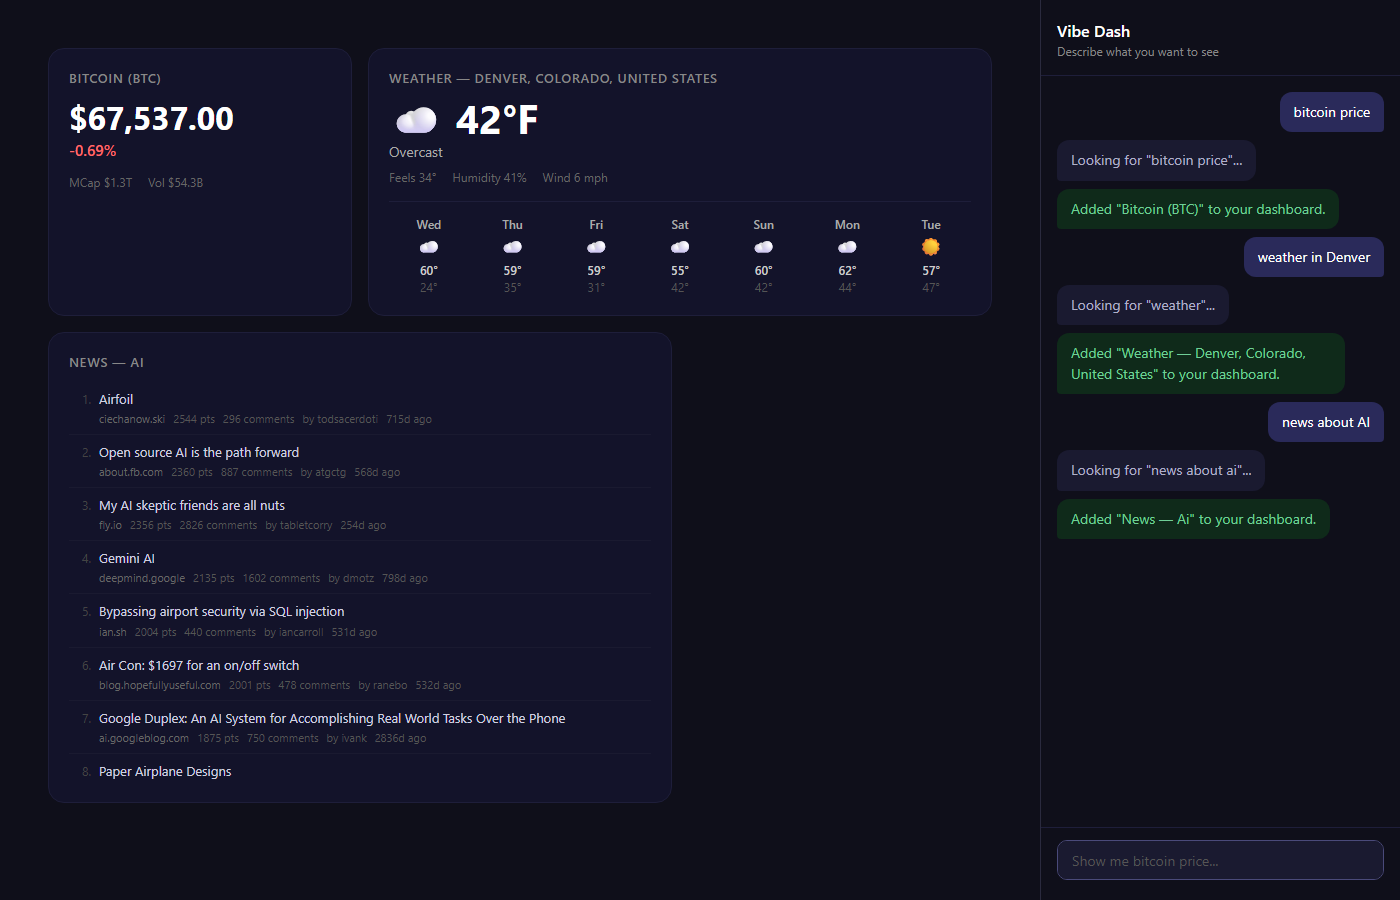
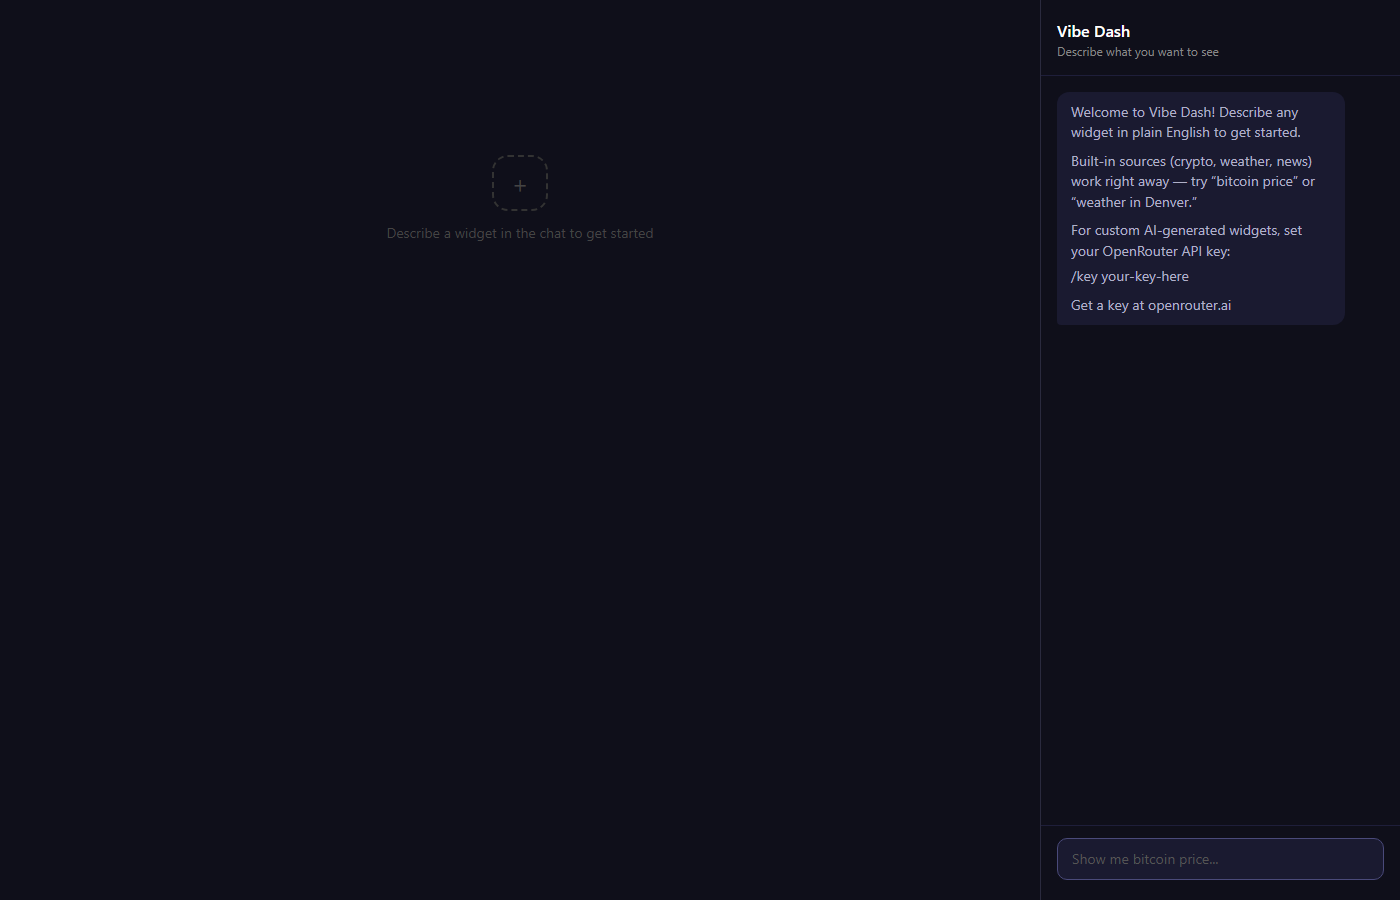
Wire up AI widget generator via OpenRouter with /key command
Switch AI generator from OpenAI to OpenRouter (Claude model), add /key
chat command for API key management, and show first-run welcome message.

diff --git a/src/main.js b/src/main.js
@@ -42,9 +42,9 @@ const sources = [
 ];
 
 // 5. AiWidgetGenerator
-const aiGenerator = createAiWidgetGenerator(
-  window.VIBE_DASH_CONFIG || {}
-);
+const aiGenerator = createAiWidgetGenerator({
+  getApiKey: () => persistence.getApiKey()
+});
 
 // 6. SourceRouter
 const router = createSourceRouter(bus, sources, aiGenerator);
@@ -76,6 +76,13 @@ createChatShell(bus, chatEl);
 
 bus.on('user:message', async (text) => {
   try {
+    // /key command — intercept before intent parser
+    const keyMatch = text.trim().match(/^\/key(?:\s+(.*))?$/);
+    if (keyMatch) {
+      handleKeyCommand(keyMatch[1]?.trim() || null);
+      return;
+    }
+
     const intent = parser.parse(text);
 
     switch (intent.action) {
@@ -277,6 +284,49 @@ function resolveTarget(intent) {
 
 
 // ============================================================================
+// /key command handler
+// ============================================================================
+
+function handleKeyCommand(arg) {
+  if (!arg) {
+    // Show current key status
+    const key = persistence.getApiKey();
+    if (key) {
+      const masked = key.length > 8
+        ? key.slice(0, 5) + '...' + key.slice(-4)
+        : '****';
+      bus.emit('system:message', {
+        type: 'info',
+        text: `API key is set: ${masked}`
+      });
+    } else {
+      bus.emit('system:message', {
+        type: 'info',
+        text: 'No API key set. Use /key your-key-here to set one.'
+      });
+    }
+    return;
+  }
+
+  if (arg === 'clear') {
+    persistence.clearApiKey();
+    bus.emit('system:message', {
+      type: 'success',
+      text: 'API key cleared.'
+    });
+    return;
+  }
+
+  // Set the key
+  persistence.setApiKey(arg);
+  bus.emit('system:message', {
+    type: 'success',
+    text: 'API key saved. AI-generated widgets are now enabled.'
+  });
+}
+
+
+// ============================================================================
 // Lifecycle
 // ============================================================================
 
@@ -289,7 +339,14 @@ window.addEventListener('beforeunload', () => {
 // Boot (contracts.ts step 11)
 // ============================================================================
 
-runtime.boot().catch(e => {
+runtime.boot().then(() => {
+  if (!persistence.getApiKey()) {
+    bus.emit('system:message', {
+      type: 'info',
+      text: `Welcome to Vibe Dash! Describe any widget in plain English to get started.\n\nBuilt-in sources (crypto, weather, news) work right away \u2014 try \u201Cbitcoin price\u201D or \u201Cweather in Denver.\u201D\n\nFor custom AI-generated widgets, set your OpenRouter API key:\n  /key your-key-here\n\nGet a key at openrouter.ai`
+    });
+  }
+}).catch(e => {
   console.error('[vibe-dash] Boot failed:', e);
   bus.emit('system:message', {
     type: 'error',

diff --git a/src/ai-generator.js b/src/ai-generator.js
@@ -4,16 +4,14 @@
 //   createAiWidgetGenerator(config)
 //   generate(intent) → Promise<DataSourceResult>
 //
-// Calls an OpenAI-compatible chat completions API to produce
+// Calls OpenRouter's chat completions API (OpenAI-compatible) to produce
 // self-contained HTML/CSS/JS rendered inside a sandboxed iframe.
 //
 // Config:
-//   apiKey:  string (required) — bearer token for the LLM API
-//   apiUrl:  string (optional) — defaults to OpenAI's chat completions endpoint
-//   model:   string (optional) — defaults to "gpt-4o-mini"
+//   getApiKey: () → string|null — lazy key lookup (checked per call)
 
-const DEFAULT_API_URL = 'https://api.openai.com/v1/chat/completions';
-const DEFAULT_MODEL = 'gpt-4o-mini';
+const DEFAULT_API_URL = 'https://openrouter.ai/api/v1/chat/completions';
+const DEFAULT_MODEL = 'anthropic/claude-sonnet-4';
 
 const SYSTEM_PROMPT = `You are a dashboard widget generator. Given a user's request, produce a single self-contained HTML document that visualizes or implements what they asked for.
 
@@ -29,7 +27,7 @@ Rules:
 - Keep it simple. One clear visualization or interaction per widget.`;
 
 export function createAiWidgetGenerator(config = {}) {
-  const apiKey = config.apiKey || null;
+  const getApiKey = config.getApiKey || (() => null);
   const apiUrl = config.apiUrl || DEFAULT_API_URL;
   const model = config.model || DEFAULT_MODEL;
 
@@ -39,10 +37,11 @@ export function createAiWidgetGenerator(config = {}) {
      * @returns {Promise<import('../contracts').DataSourceResult>}
      */
     async generate(intent) {
+      const apiKey = getApiKey();
       if (!apiKey) {
         return {
           kind: 'error',
-          message: 'AI widget generation requires an API key. Configure one to enable custom widgets.',
+          message: 'AI widget generation requires an API key. Use /key your-key-here to set your OpenRouter key.',
           retryable: false
         };
       }
@@ -55,7 +54,9 @@ export function createAiWidgetGenerator(config = {}) {
           method: 'POST',
           headers: {
             'Content-Type': 'application/json',
-            'Authorization': `Bearer ${apiKey}`
+            'Authorization': `Bearer ${apiKey}`,
+            'HTTP-Referer': 'https://github.com/anthropics/vibe-dash',
+            'X-Title': 'Vibe Dash'
           },
           body: JSON.stringify({
             model,

diff --git a/src/persistence.js b/src/persistence.js
@@ -6,6 +6,7 @@
 // Returns [] on missing or corrupt data — never throws.
 
 const STORAGE_KEY = 'vibe-dash-widgets';
+const API_KEY_KEY = 'vibe-dash-api-key';
 const DEBOUNCE_MS = 500;
 
 const PERSISTED_KEYS = [
@@ -89,6 +90,22 @@ export function createPersistenceLayer() {
     clear() {
       clearTimeout(debounceTimer);
       localStorage.removeItem(STORAGE_KEY);
+    },
+
+    /** Get stored OpenRouter API key, or null. */
+    getApiKey() {
+      return localStorage.getItem(API_KEY_KEY) || null;
+    },
+
+    /** Store (or remove) the OpenRouter API key. */
+    setApiKey(key) {
+      if (key) localStorage.setItem(API_KEY_KEY, key);
+      else localStorage.removeItem(API_KEY_KEY);
+    },
+
+    /** Remove the stored API key. */
+    clearApiKey() {
+      localStorage.removeItem(API_KEY_KEY);
     }
   };
 }

diff --git a/src/chat-shell.js b/src/chat-shell.js
@@ -53,7 +53,10 @@ export function createChatShell(bus, container) {
     msg.className = `chat-msg chat-msg-${role} chat-msg-${type}`;
 
     if (typeof content === 'string') {
-      msg.innerHTML = `<p>${escapeHtml(content)}</p>`;
+      msg.innerHTML = escapeHtml(content)
+        .split('\n')
+        .map(line => `<p>${line}</p>`)
+        .join('');
     } else {
       msg.appendChild(content);
     }
@@ -231,6 +234,8 @@ function injectStyles() {
     }
 
     .chat-msg p { margin: 0; }
+    .chat-msg p + p { margin-top: 0.4em; }
+    .chat-msg p:empty { margin-top: 0.6em; }
 
     .chat-msg-user {
       align-self: flex-end;

diff --git a/index.html b/index.html
@@ -59,20 +59,6 @@
     <div id="chat"></div>
   </div>
 
-  <!--
-    AI Widget Generator config (optional).
-    Set an OpenAI-compatible API key to enable AI-generated widgets.
-    Without this, requests that don't match crypto/weather will show an error.
-
-    <script>
-      window.VIBE_DASH_CONFIG = {
-        apiKey: 'sk-...',
-        // apiUrl: 'https://api.openai.com/v1/chat/completions',  // default
-        // model: 'gpt-4o-mini',                                   // default
-      };
-    </script>
-  -->
-
   <script type="module" src="src/main.js"></script>
 </body>
 </html>
